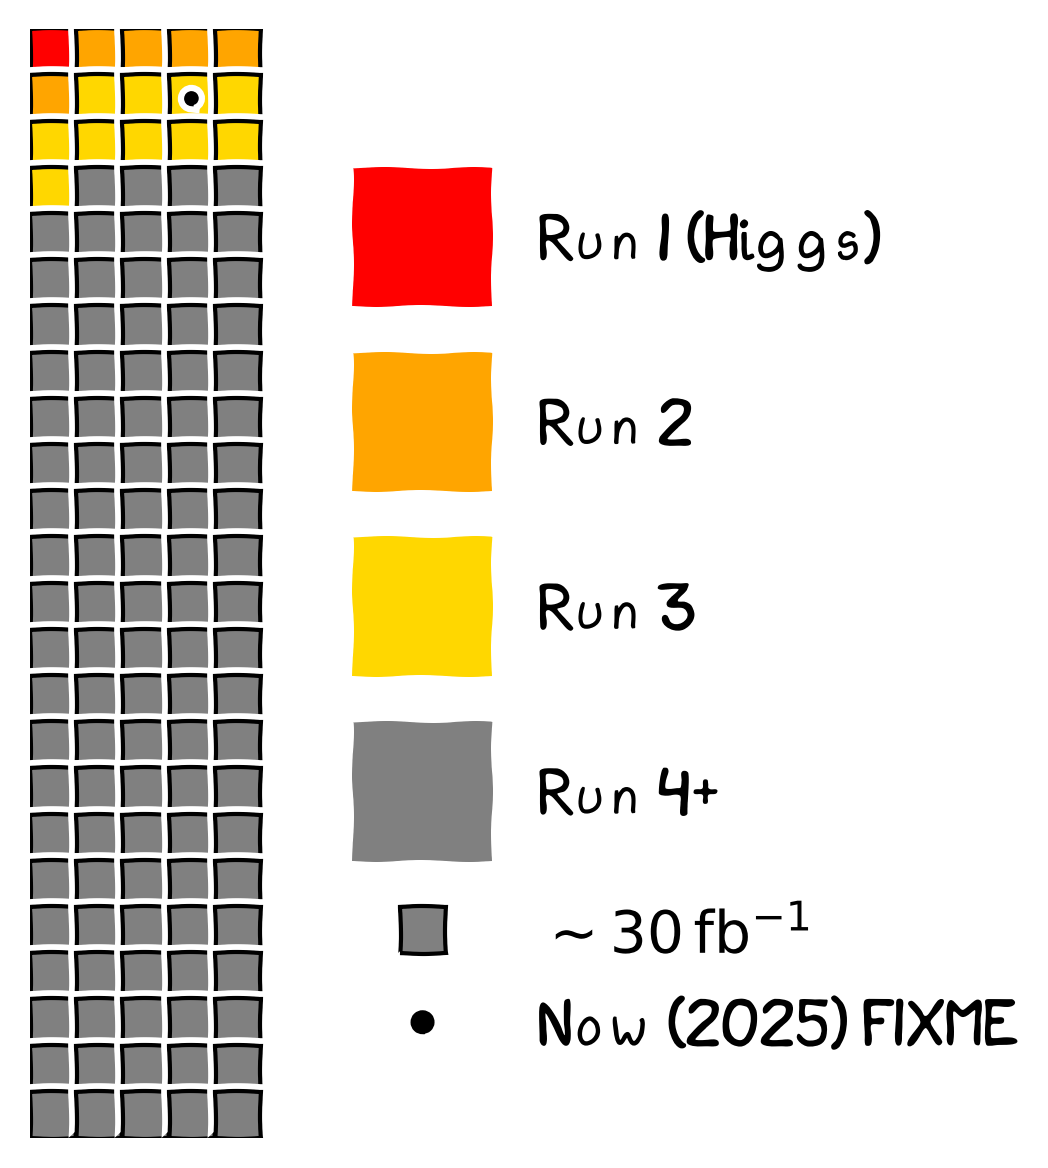
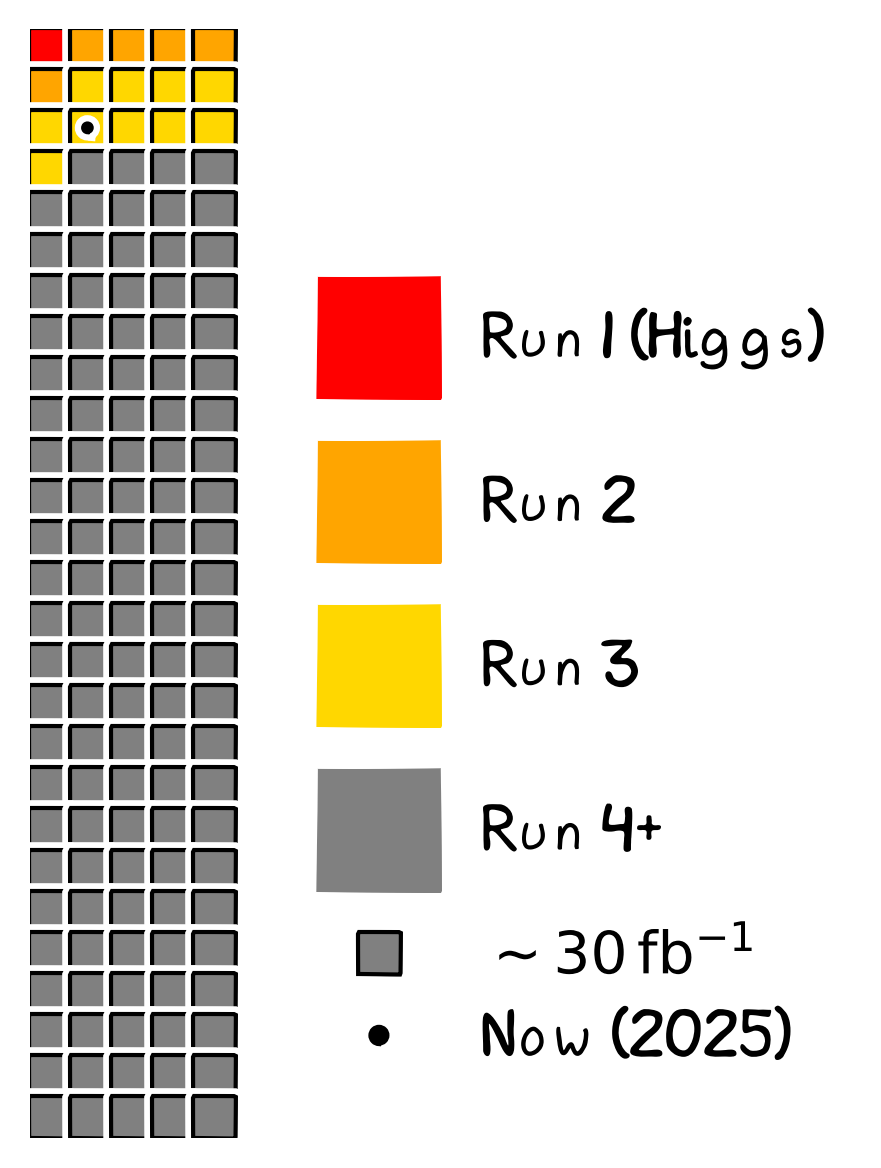
Add corrections to plot

diff --git a/figures/code/lhc_lumi.py b/figures/code/lhc_lumi.py
@@ -4,7 +4,11 @@ from pathlib import Path
 import matplotlib.pyplot as plt
 
 # XKCD style
-plt.xkcd()
+# Vary parameters to avoid sharp edges and clipping
+# Thanks to Thomas Caswell for the suggestion
+# plt.xkcd(scale=0.2)
+# plt.xkcd(scale=0.2, length=200)
+plt.xkcd(length=500)
 
 # Total integrated Luminosity marks
 # Run 1: 30 fb^-1 (Run: 30 fb^-1)
@@ -20,12 +24,14 @@ plt.xkcd()
 # n_cols = 5
 
 # would get 3960 fb^-1
-n_rows = 22
-n_cols = 6
+# n_rows = 22
+# n_cols = 6
 
-# would get 4050 fb^-1
-# n_rows = 27
-# n_cols = 5
+# would get 4050 fb^-1, but choosing to have n_cols be 5
+# for aesthetic reasons of being able to easily calculate
+# in numbers of 10 per 2 rows.
+n_rows = 27
+n_cols = 5
 
 fig, ax = plt.subplots()
 ax.axis("off")
@@ -45,18 +51,14 @@ for row, col in itertools.product(range(n_rows), range(n_cols)):
         facecolor = run_one_color
     elif row == 0 and col > 0:
         facecolor = run_two_color
-    # elif row == 1 and col == 0:
-    #     facecolor = run_two_color
-    # elif row == 1 and col > 0:
-    #     facecolor = run_three_color
-    elif row == 1:
-    #     facecolor = run_three_color
-    # elif row == 2:
+    elif row == 1 and col == 0:
+        facecolor = run_two_color
+    elif row == 1 and col > 0:
         facecolor = run_three_color
-    elif row == 2 and col < 4:
+    elif row == 2:
         facecolor = run_three_color
-    # elif row == 3 and col == 0:
-    #     facecolor = run_three_color
+    elif row == 3 and col == 0:
+        facecolor = run_three_color
     else:
         facecolor = run_four_color
     square = plt.Rectangle(
@@ -130,11 +132,10 @@ ax.add_patch(
 # ax.text(11, 4, r"~ $30 \mathrm{fb}^{-1}$", fontsize=14, fontweight="bold")
 ax.text(11, 4, r"$\sim 30\,\mathrm{fb}^{-1}$", fontsize=14, fontweight="bold")
 
-# ax.add_patch(plt.Circle((3.5, 22.5), 0.1, color="black", fill=True))
-ax.add_patch(plt.Circle((0.5, 19.5), 0.1, color="black", fill=True))
+ax.add_patch(plt.Circle((1.4, 24.6), 0.1, color="black", fill=True))
 
 ax.add_patch(plt.Circle((8.5, 2.5), 0.2, color="black", fill=True))
-ax.text(11, 2, r"Now (2025) FIXME", fontsize=14, fontweight="bold")
+ax.text(11, 2, r"Now (2025)", fontsize=14, fontweight="bold")
 
 # Set the limits of the plot
 # ax.set_xlim(0, n_cols)
